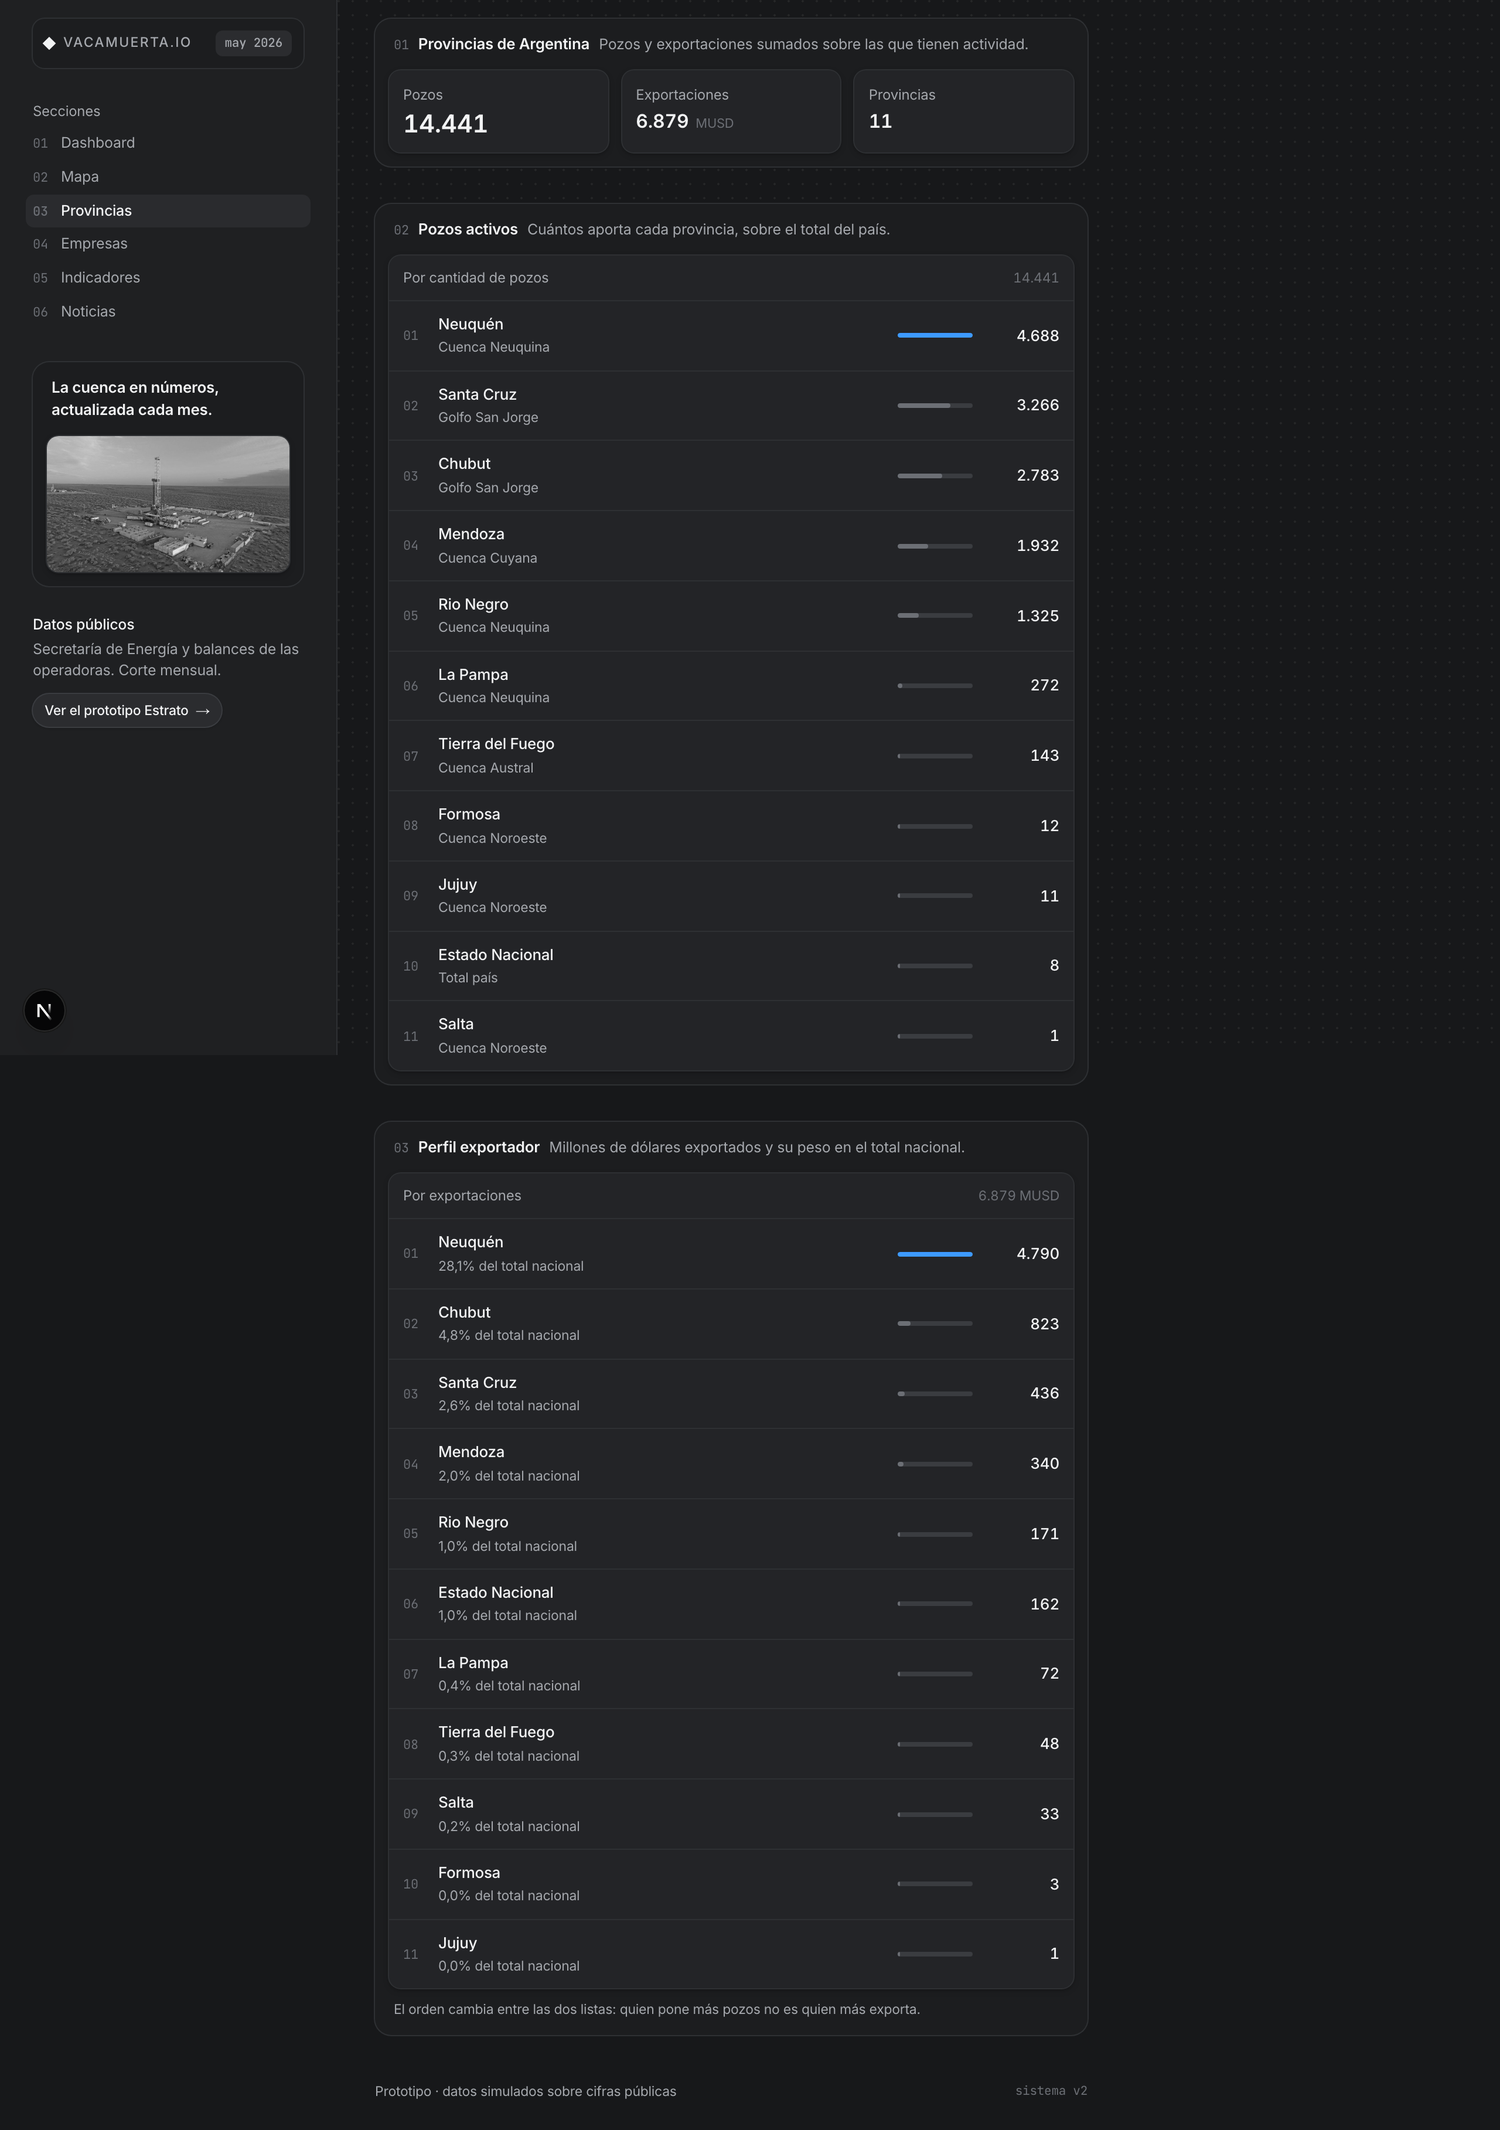
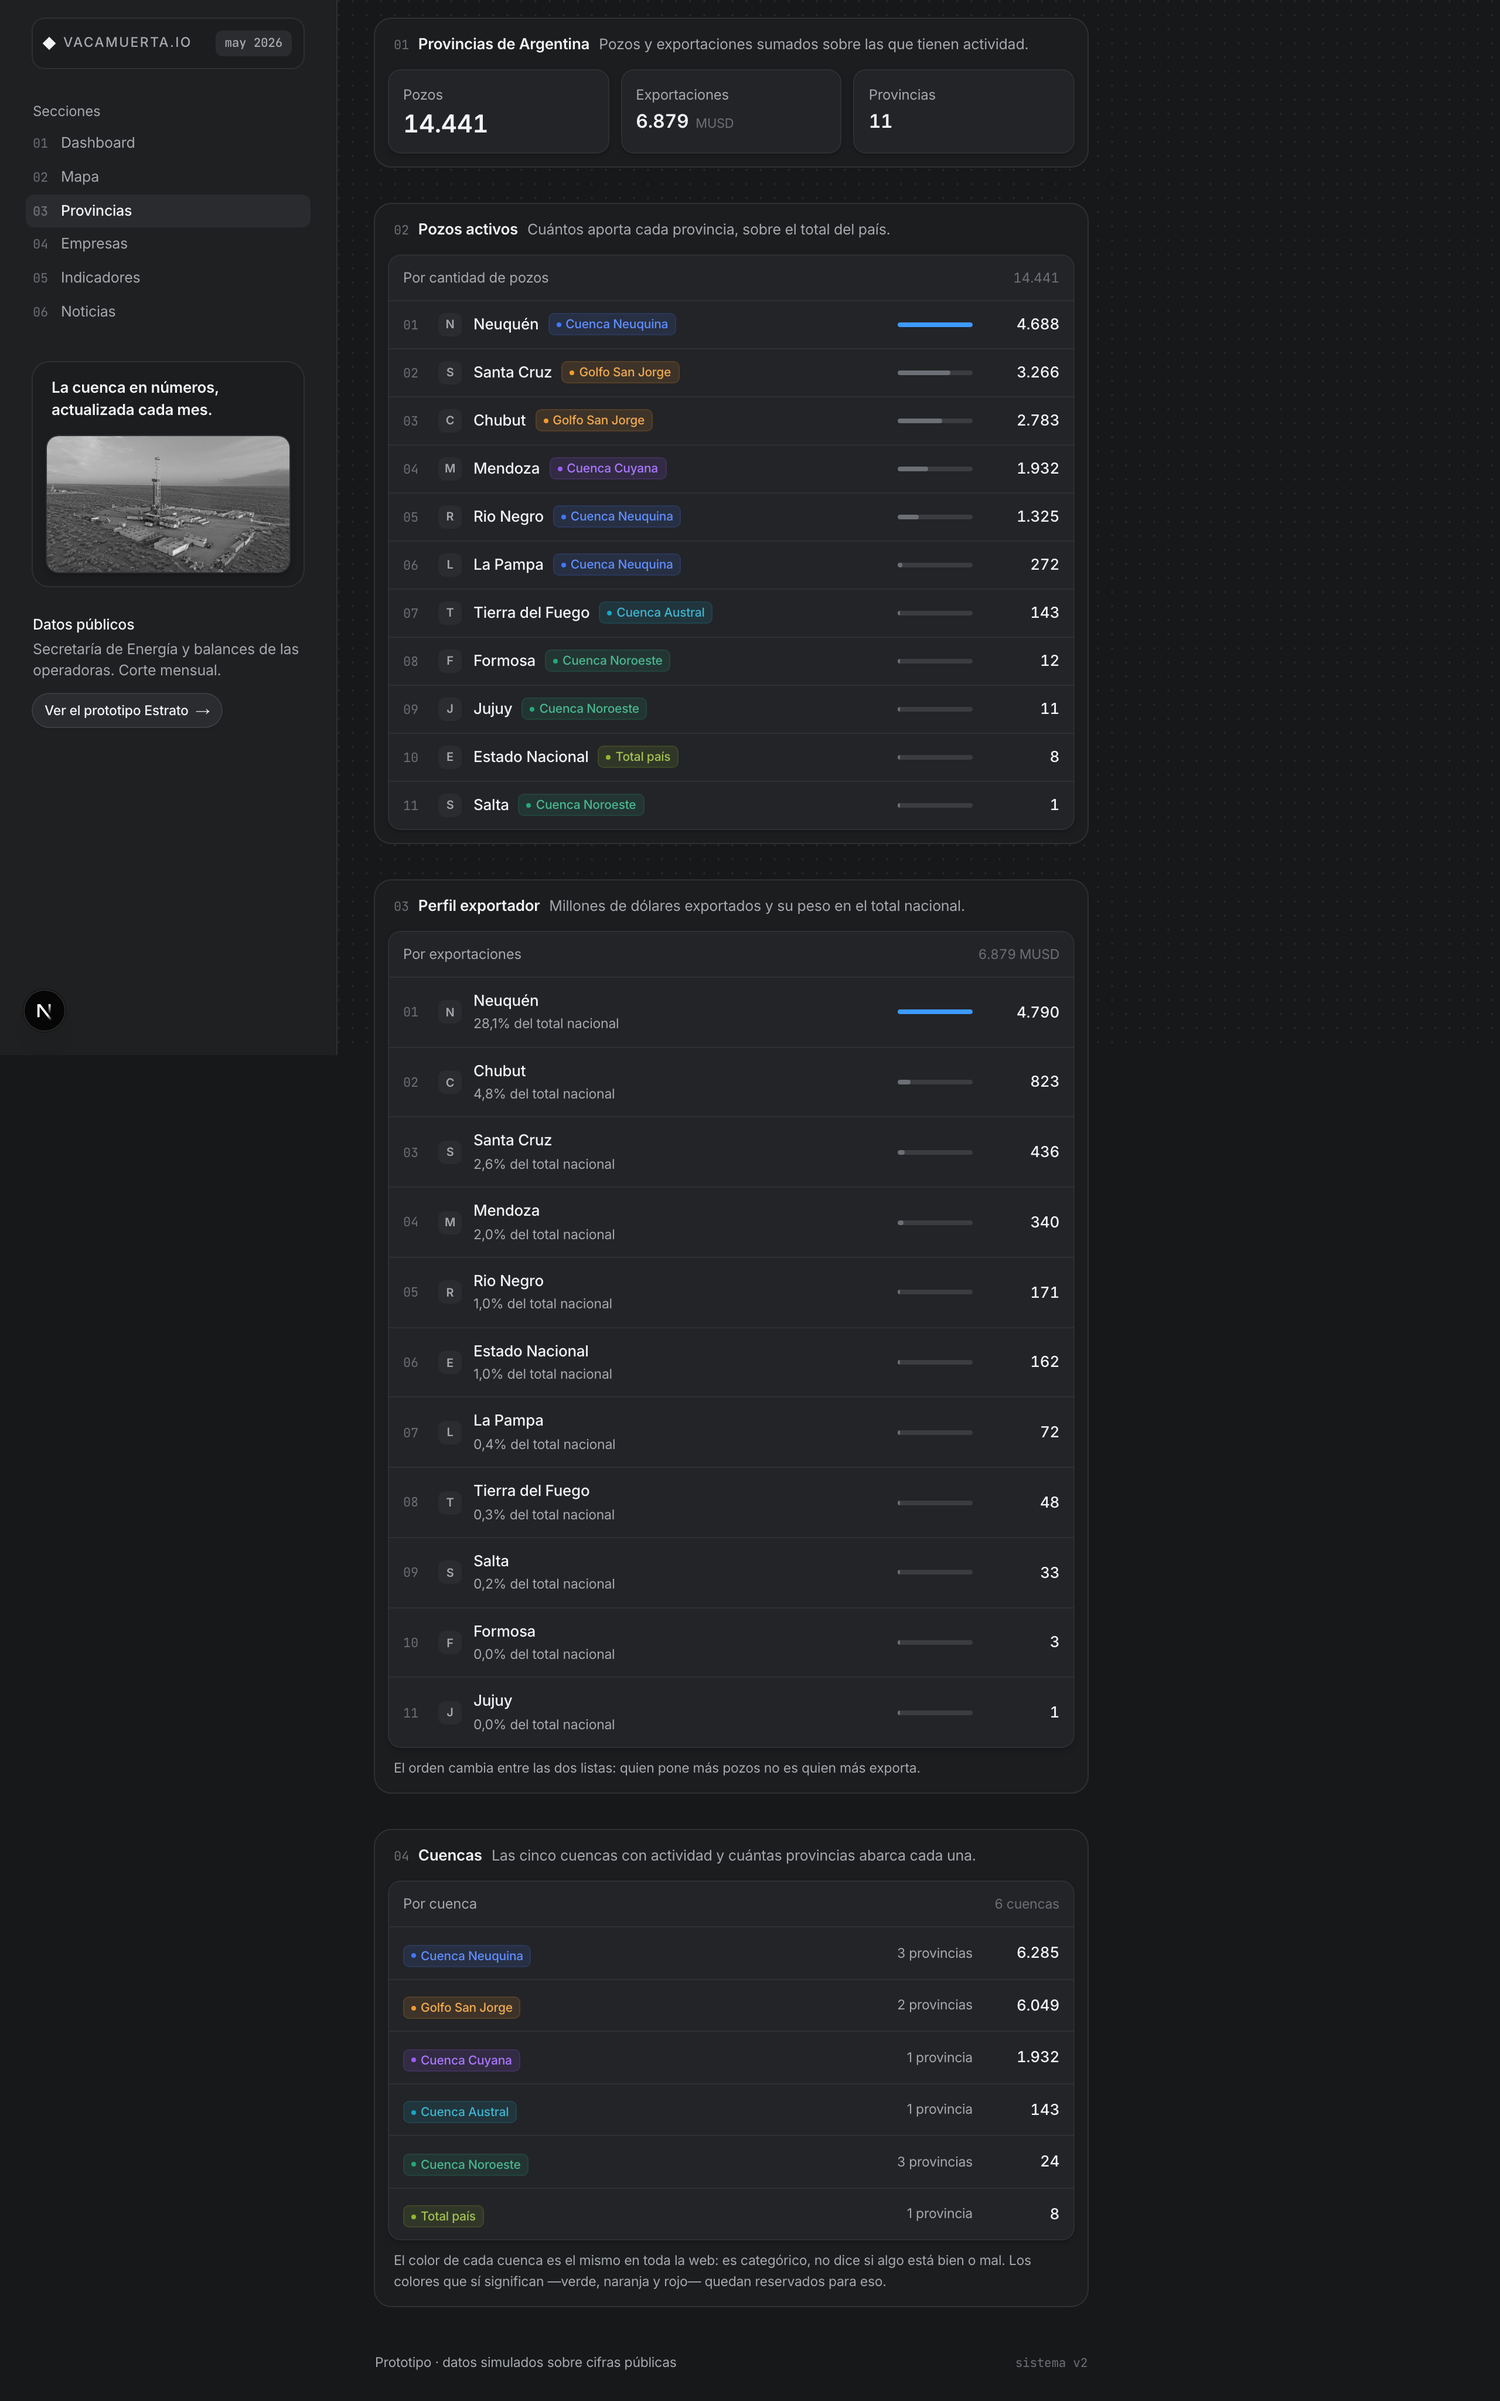
style(ui-prototype): tags más chicos, para que no pesen más que el dato
De 23px de alto a 19, texto de 11 a 10,5, radio de 6 a 5 y el punto de 5 a 4.

Acá el tamaño se aparta del original a propósito, y vale explicar por qué,
porque la proporción medida NO era el error: en la referencia el tag también
es más alto que el nombre que acompaña (23px contra 12,5). La diferencia es
otra. Allá el tag lleva etiquetas cortas —"Gelato"— al lado de nombres largos
—"Andes Snow Creamery — Quito"—, y ahí se lee como secundario. Acá pasa al
revés: "Neuquén" con "Cuenca Neuquina" al lado, y el tag terminaba pesando más
que el dato al que anota.

Con 19px entra justo en la caja de línea del nombre —medido: 0,97 de la caja
de 19,5— y vuelve a leerse como anotación. El radio baja con la caja, como
manda la regla del sistema.

Queda una palanca más si sigue molestando: la etiqueta repite la palabra
"Cuenca" en cuatro de las seis, y acortarlas a "Neuquina", "Austral" y demás
achicaría el tag a la mitad sin perder nada. No lo hice porque son los nombres
canónicos del sitio.

diff --git a/apps/ui-prototype/src/app/v2/sistema.css b/apps/ui-prototype/src/app/v2/sistema.css
@@ -400,16 +400,24 @@
 
    El truco vale la pena: un solo color por categoría define las tres capas y
    el resultado queda siempre legible, porque el texto se mezcla con la tinta
-   y el fondo con la superficie. Cambia solo entre temas. */
+   y el fondo con la superficie. Cambia solo entre temas.
+
+   El tamaño SÍ se aparta del original: 19px de alto en vez de 23, texto de
+   10,5 en vez de 11 y radio 5 en vez de 6. En la referencia el tag acompaña
+   nombres largos —"Andes Snow Creamery — Quito"— con etiquetas cortas como
+   "Gelato", y ahí los 23px se leen como secundarios. Acá pasa al revés:
+   "Neuquén" con "Cuenca Neuquina" al lado, y el tag terminaba pesando más que
+   el dato. Con 19 entra en la caja de línea del nombre (19,5px) y vuelve a
+   leerse como anotación. El radio baja con la caja, como manda la regla. */
 .s-tag {
   display: inline-flex;
   align-items: center;
   flex-shrink: 0;
-  height: 23px;
+  height: 19px;
   max-width: 140px;
-  padding: 0 7px;
-  border-radius: 6px;
-  font-size: 11px;
+  padding: 0 6px;
+  border-radius: 5px;
+  font-size: 10.5px;
   font-weight: 500;
   white-space: nowrap;
   overflow: hidden;
@@ -419,10 +427,10 @@
   background: color-mix(in srgb, var(--tag-color) 13%, var(--surface));
 }
 .s-tag > i {
-  flex: 0 0 5px;
-  width: 5px;
-  height: 5px;
-  margin-right: 5px;
+  flex: 0 0 4px;
+  width: 4px;
+  height: 4px;
+  margin-right: 4px;
   border-radius: 50%;
   background: var(--tag-color);
 }
